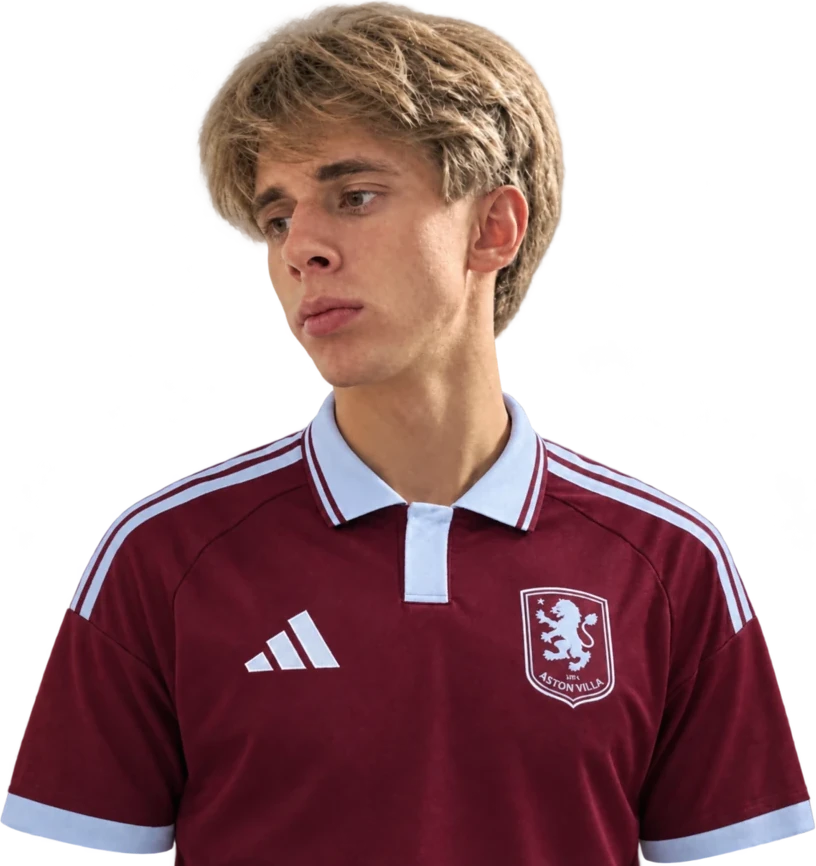
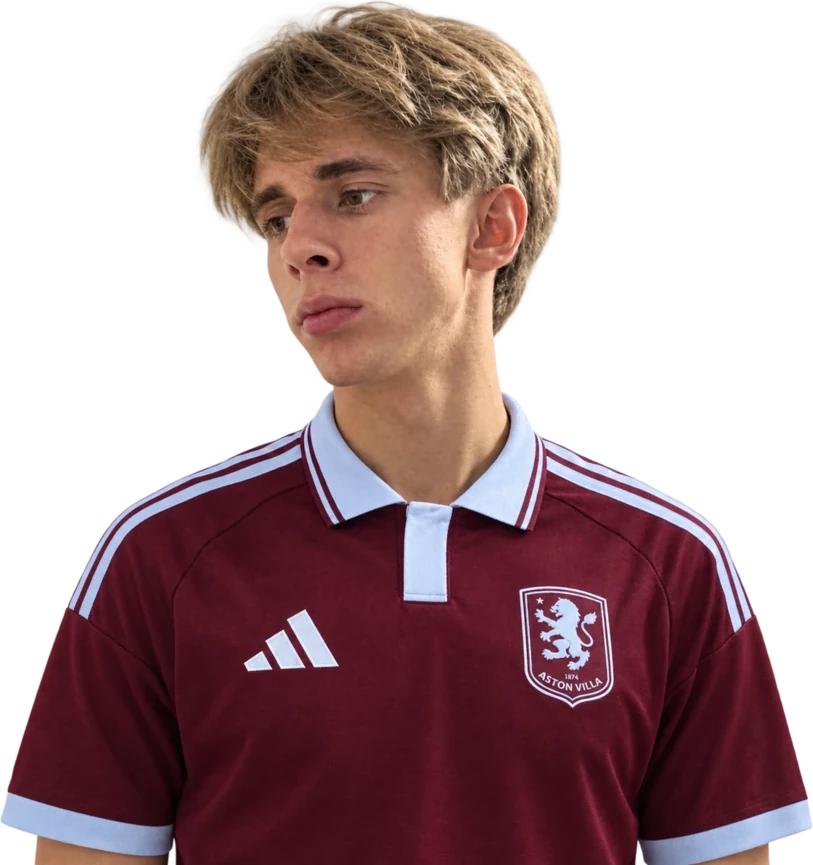
Restore portrait arms while preserving alignment

diff --git a/index.html b/index.html
@@ -19,7 +19,7 @@ body.loading .header,body.loading .copy>*{animation:enter .65s both}body.loading
 @keyframes photo{from{opacity:0;transform:translateY(18px)}to{opacity:1;transform:none}}
 </style><script>(function(){try{var t=localStorage.getItem("theme")||(matchMedia("(prefers-color-scheme:dark)").matches?"dark":"light");document.documentElement.dataset.theme=t}catch(e){}})()</script></head>
 <body class="loading"><header class="header"><a class="brand" href="#top">Eleganthy × sa1n1o</a><div class="actions"><nav aria-label="Основная навигация"><a href="#social">Соцсети</a><a href="#support">Поддержать</a><a href="#advertising">Реклама</a></nav><button class="theme" id="theme" type="button">◐ Тёмная тема</button></div></header>
-<main id="top"><section class="hero"><div class="copy"><h1 class="d"><span>Eleganthy</span><span class="solid">× sa1n1o</span></h1><div class="intro"><p>Привет, друг! Меня зовут Сергей. Я занимаюсь YouTube и стримами с 2020 года, но это всё неважно.</p><p>Здесь ты найдёшь мои социальные сети, способы поддержать творчество и контакты для рекламы.</p><a class="jump" href="#social">Все мои ссылки ↓</a></div></div><div class="portrait"><span class="portrait-label" aria-hidden="true">SA1N1O</span><img id="portrait" src="photo-light.webp" data-light="photo-light.webp" data-dark="photo-dark.webp" width="816" height="866" alt="Сергей / Eleganthy × sa1n1o"></div></section>
+<main id="top"><section class="hero"><div class="copy"><h1 class="d"><span>Eleganthy</span><span class="solid">× sa1n1o</span></h1><div class="intro"><p>Привет, друг! Меня зовут Сергей. Я занимаюсь YouTube и стримами с 2020 года, но это всё неважно.</p><p>Здесь ты найдёшь мои социальные сети, способы поддержать творчество и контакты для рекламы.</p><a class="jump" href="#social">Все мои ссылки ↓</a></div></div><div class="portrait"><span class="portrait-label" aria-hidden="true">SA1N1O</span><img id="portrait" src="photo-light.webp" data-light="photo-light.webp" data-dark="photo-dark.webp" width="813" height="865" alt="Сергей / Eleganthy × sa1n1o"></div></section>
 <section class="statement"><h2 class="d">Всё важное — в одном месте.</h2><p>Стримы, видео, соцсети и поддержка. Выбирай нужную карточку.</p></section><section id="social"><div class="head"><h2 class="d">Социальные сети</h2><span id="social-count"></span></div><div class="links" id="social-grid"></div><p class="notice">* Meta признана экстремистской организацией и запрещена на территории РФ.</p></section><section id="support"><div class="head"><h2 class="d">Поддержать</h2><span id="support-count"></span></div><div class="links" id="support-grid"></div></section><section class="ad" id="advertising"><h2 class="d">Реклама</h2><p>Для рекламы и сотрудничества: <a href="mailto:businesssainto@gmail.com">businesssainto@gmail.com</a></p></section></main>
 <footer><div class="foot-info"><span>Сергей / Eleganthy × sa1n1o, 2026</span><span>Сайт не использует cookies и не собирает персональные данные. Выбор темы хранится только в localStorage вашего браузера.</span></div><div class="foot-links"><a href="privacy.html">Конфиденциальность</a><a href="mailto:businesssainto@gmail.com">businesssainto@gmail.com</a></div></footer><div id="status" role="status" aria-live="polite" hidden></div>
 <script>
